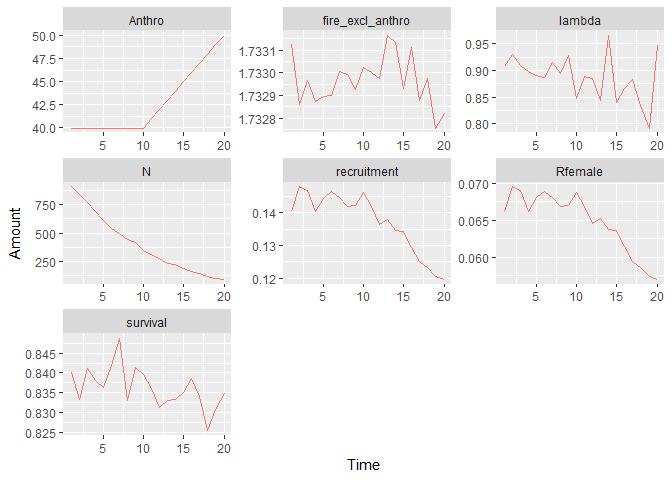
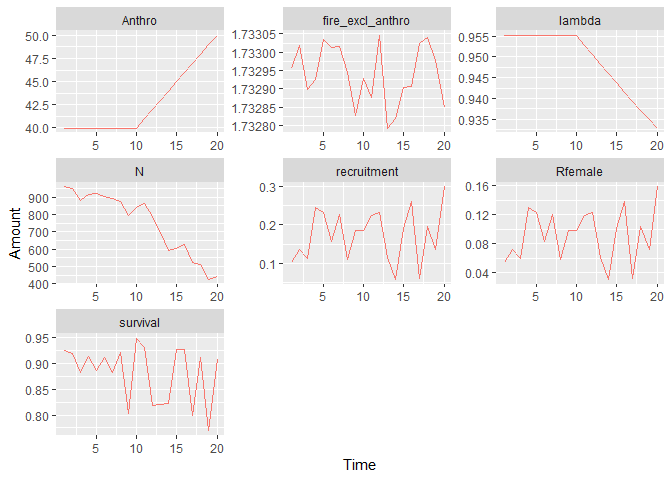
disabling broken vignette until we have time for debugging

diff --git a/README.md b/README.md
@@ -91,19 +91,19 @@ demRates <- demographicRates(covTable = disturb_tbl,
 #> popGrowthPars contains quantiles so they are used instead of the defaults
 demRates
 #>   zone   Anthro     Fire Total_dist fire_excl_anthro FID     S_bar   S_stdErr
-#> 1    1 39.97933 1.732936   40.56555        0.5862182   0 0.8478733 0.05848277
+#> 1    1 39.97933 1.732936   40.56555        0.5862182   0 0.8478733 0.05241465
 #>     S_PIlow  S_PIhigh     R_bar   R_stdErr    R_PIlow  R_PIhigh
-#> 1 0.7382298 0.9355214 0.1813372 0.08566332 0.05688173 0.3502751
+#> 1 0.7565716 0.9248297 0.1813372 0.09978929 0.04519307 0.3927806
 
 # Simulate population growth
 popGrow <- caribouPopGrowth(N = 2000, numSteps = 20, R_bar = demRates$R_bar, 
                             S_bar = demRates$S_bar)
 
 popGrow
-#>     N0    lambda   N       R_t        X_t       S_t n_recruits
-#> 1 2000 0.9273454 440 0.1822609 0.09113044 0.8359903         27
+#>     N0 lambdaTrue    lambda   N        R_t        X_t       S_t n_recruits
+#> 1 2000  0.8975009 0.9247487 230 0.06236733 0.03118367 0.9610701          3
 #>   surviving_adFemales
-#> 1                 413
+#> 1                 227
 
 # simulate caribou collar observations
 params <- getScenarioDefaults(
@@ -122,10 +122,9 @@ ipm <- caribouBayesianPM(simObs$simSurvObs, simObs$ageRatioOut,
                           simObs$simDisturbance,
                           # only set to speed up vignette. Normally keep defaults.
                           Niter = 150, Nburn = 100)
-#> using Kaplan-Meier survival model
+#> using Binomial survival model
 
 natSim <- getSimsNational(Anthro = unique(simObs$simDisturbance$Anthro))
-#> Warning: Setting expected survival S_bar to be between l_S and h_S.
 
 ipmTbls <- getOutputTables(ipm, paramTable = simObs$paramTable, 
                             exData = simObs$exData, 
@@ -165,14 +164,6 @@ carHab1 <- caribouHabitat(
 
 # plot the results
 plot(carHab1)
-#> The legacy packages maptools, rgdal, and rgeos, underpinning the sp package,
-#> which was just loaded, will retire in October 2023.
-#> Please refer to R-spatial evolution reports for details, especially
-#> https://r-spatial.org/r/2023/05/15/evolution4.html.
-#> It may be desirable to make the sf package available;
-#> package maintainers should consider adding sf to Suggests:.
-#> The sp package is now running under evolution status 2
-#>      (status 2 uses the sf package in place of rgdal)
 ```
 
 <img src="man/figures/README-example-4.png" width="100%" />
@@ -197,14 +188,13 @@ and the following articles/vignettes/tutorials:
   Metrics**](https://landscitech.github.io/caribouMetrics/articles/Using_disturbanceMetrics.html):
   Calculate buffered anthropogenic disturbance and fire disturbance
   percentages for a given area.
-- [**Ontario Habitat
-  Model**](https://landscitech.github.io/caribouMetrics/articles/Using_caribouHabitat.html):
-  Calculate caribou habitat use with Ontario RSF models.
 - [**User Interface
   Help**](https://landscitech.github.io/caribouMetrics/articles/UI_help.html):
   Instructions for using the SyncroSim user interface for integrating
   SpaDES, LandR and FireSense projections with caribou habitat and
   demographic models (WIP)
+
+<!-- * [**Ontario Habitat Model**](https://landscitech.github.io/caribouMetrics/articles/Using_caribouHabitat.html): Calculate caribou habitat use with Ontario RSF models. -->
 
 ## Getting help
 
